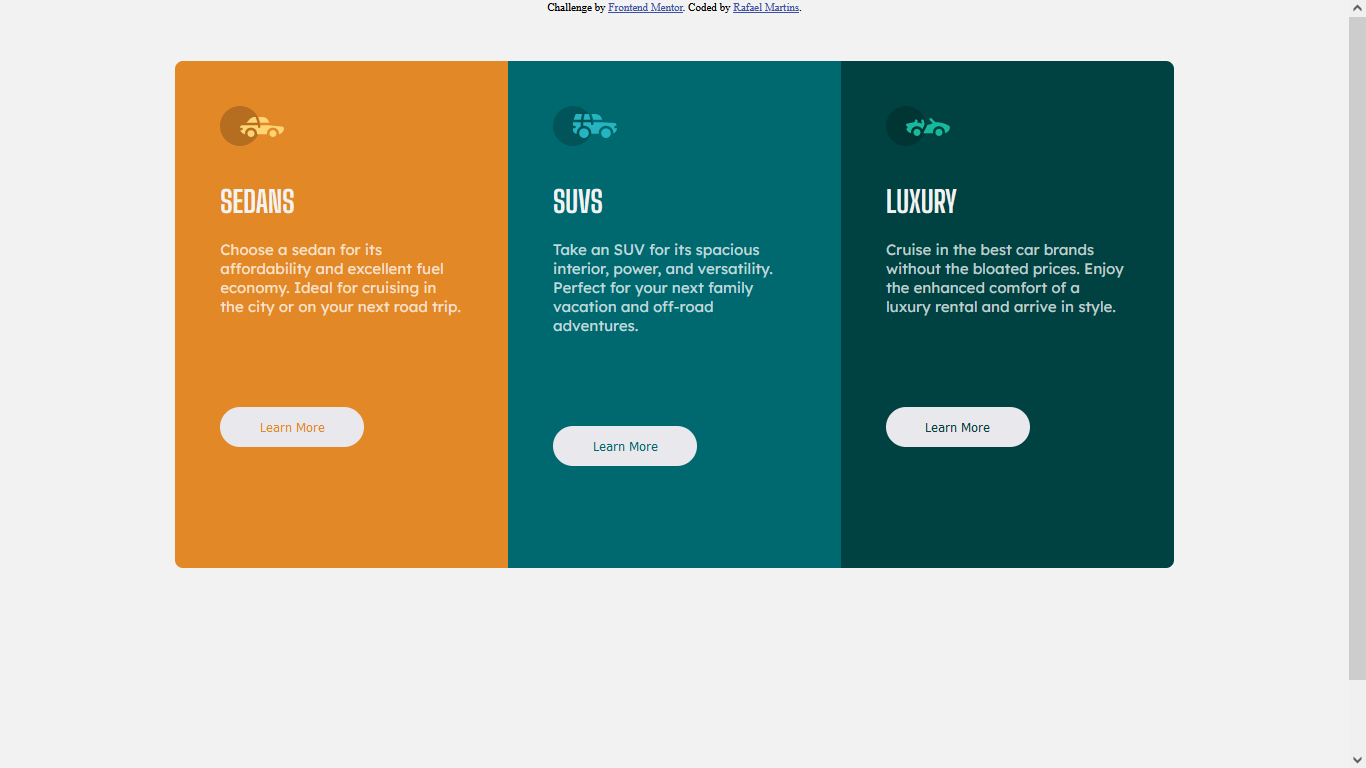
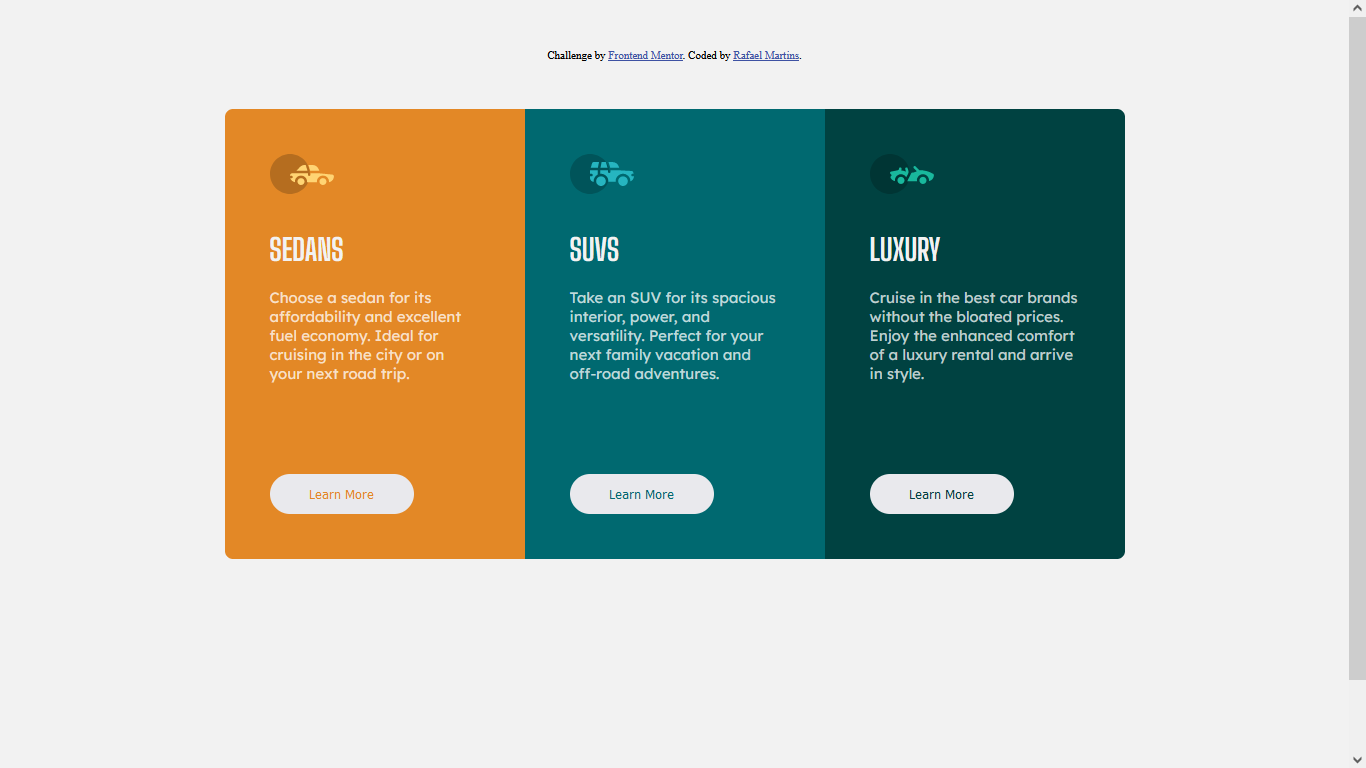
ajustes

Changed region(s): [[0.123, 0.0625, 0.8609, 0.75], [0.3997, 0.0, 0.5842, 0.0312], [0.6457, 0.2188, 0.7072, 0.2812]]

diff --git a/index.html b/index.html
@@ -15,7 +15,7 @@
   <main>
     <div class="card">
       <img src="images/icon-sedans.svg" alt="icon sedam">
-      <h2>SEDANS</h2>
+      <h1>SEDANS</h1>
       <p>
         Choose a sedan for its affordability and excellent fuel economy. Ideal
         for cruising in the city or on your next road trip.
@@ -24,7 +24,7 @@
     </div>
     <div class="card">
       <img src="images/icon-suvs.svg" alt="icon suvs">
-      <h2>SUVS</h2>
+      <h1>SUVS</h1>
       <p>
         Take an SUV for its spacious interior, power, and versatility. Perfect
         for your next family vacation and off-road adventures.
@@ -33,7 +33,7 @@
     </div>
     <div class="card">
       <img src="images/icon-luxury.svg" alt="icon luxury">
-      <h2>LUXURY</h2>
+      <h1>LUXURY</h1>
       <p>
         Cruise in the best car brands without the bloated prices. Enjoy the
         enhanced comfort of a luxury rental and arrive in style.

diff --git a/style.css b/style.css
@@ -24,8 +24,8 @@ body {
 }
 
 main {
-  width: 130vh;
-  height: 66vh;
+  width: 900px;
+  height: 450px;
   display: flex;
   flex-wrap: wrap;
   border-radius: 8px;
@@ -37,7 +37,7 @@ main {
   padding: 3em;
 }
 
-.card h2 {
+.card h1 {
   color: var(--Verylightgray);
   font-size: 2em;
   font-family: "Big Shoulders Display", "cursive";
@@ -77,6 +77,7 @@ button#b3 { color: var(--Verydarkcyan);}
 
 .attribution {
   font-size: 11px; text-align: center;
+  margin-top: 3rem;
   margin-bottom: 3rem;
 }
 
